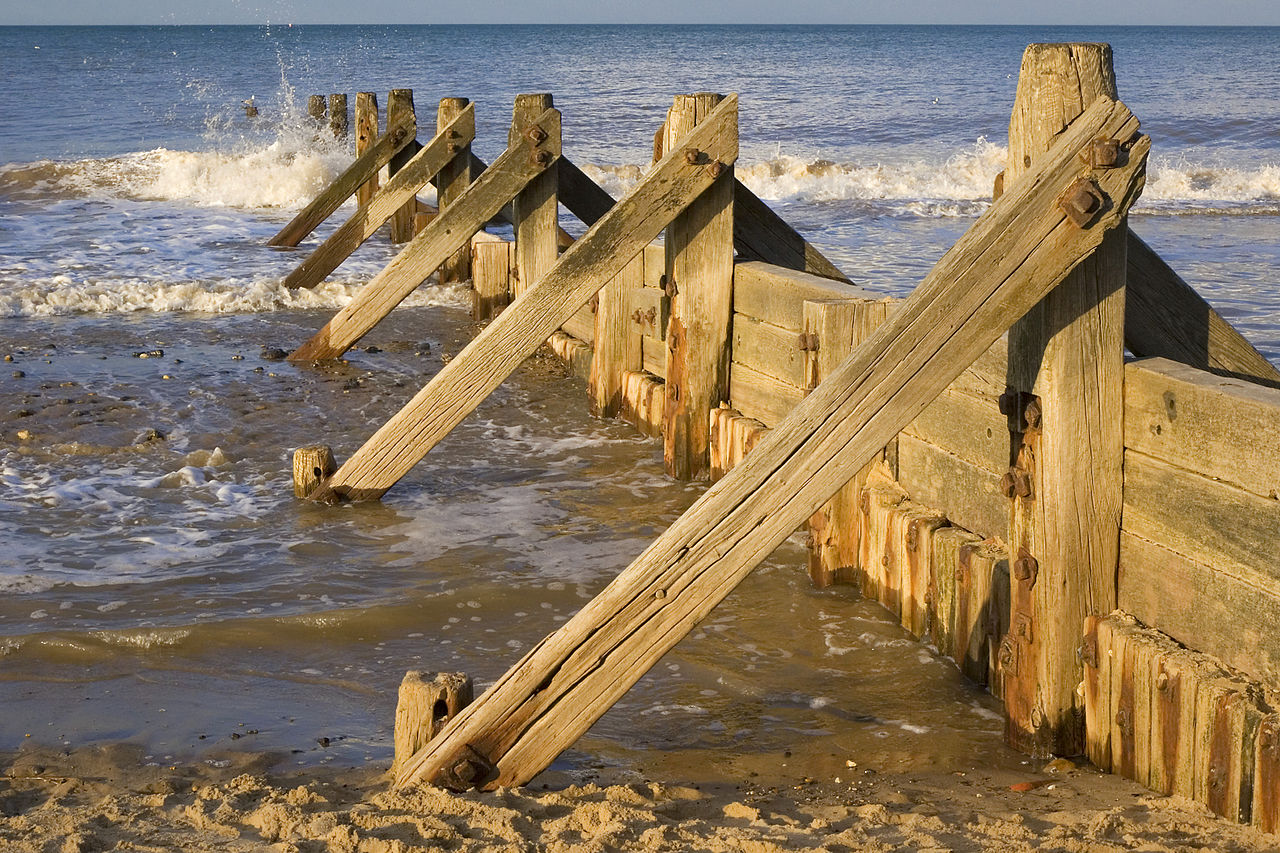
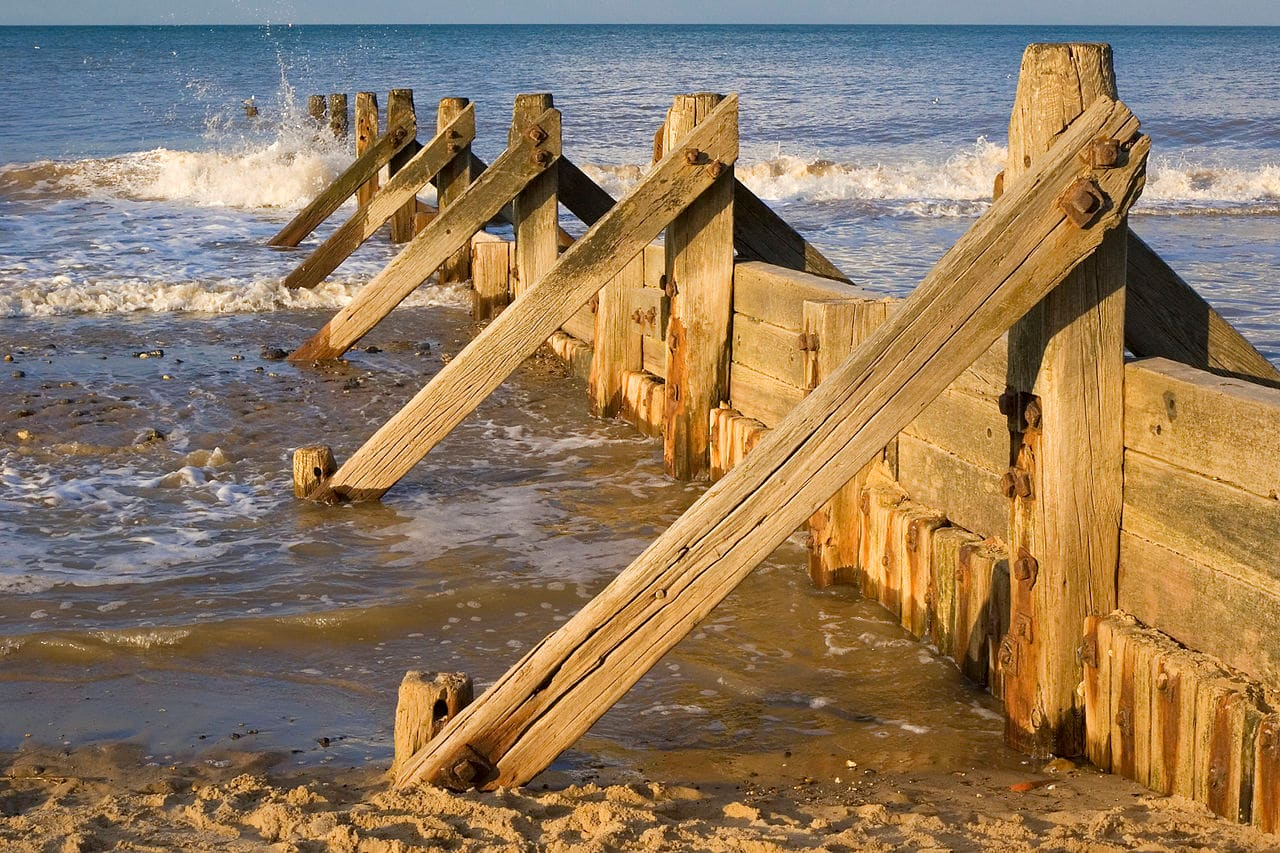
Compress static images, load Mulish font, memoize map components, and add query indexes

diff --git a/backend/migrations/2026-08-18_query_indexes.js b/backend/migrations/2026-08-18_query_indexes.js
@@ -1,0 +1,32 @@
+const pool = require("../db");
+
+async function main() {
+  const client = await pool.connect();
+  try {
+    await client.query("BEGIN");
+    await client.query(`
+      CREATE INDEX IF NOT EXISTS idx_zones_satellite_active
+      ON shoreline_zones (area_id, year)
+      WHERE source_type LIKE 'Satellite Analysis%' AND active
+    `);
+    await client.query(`
+      CREATE INDEX IF NOT EXISTS idx_audit_log_created_at
+      ON audit_log (created_at DESC)
+    `);
+    await client.query(`
+      CREATE INDEX IF NOT EXISTS idx_account_requests_status
+      ON account_requests (status, requested_at DESC)
+    `);
+    await client.query("COMMIT");
+    console.log("Query indexes created.");
+  } catch (err) {
+    await client.query("ROLLBACK");
+    console.error("Migration failed:", err.message);
+    process.exitCode = 1;
+  } finally {
+    client.release();
+    await pool.end();
+  }
+}
+
+main();

diff --git a/frontend/src/components/CoastalSummary.jsx b/frontend/src/components/CoastalSummary.jsx
@@ -1,9 +1,9 @@
-import { useEffect, useRef, useState } from "react";
+import { memo, useEffect, useRef, useState } from "react";
 import "../pages/styles/coastalsummarycard.css";
 import { SEGMENT_COLORS } from "../utils/segmentData";
 
 import { API_BASE_URL } from "../config/api";
-export default function CoastalSummary({ yearlyData = [], selectedMunicipality = null, segments = [] }) {
+function CoastalSummary({ yearlyData = [], selectedMunicipality = null, segments = [] }) {
   const summaryRef = useRef(null);
   const [isVisible, setIsVisible] = useState(true);
   const [bataanSummary, setBataanSummary] = useState(null);
@@ -161,3 +161,5 @@ export default function CoastalSummary({ yearlyData = [], selectedMunicipality =
     </div>
   );
 }
+
+export default memo(CoastalSummary);

diff --git a/frontend/src/components/MapLegend.jsx b/frontend/src/components/MapLegend.jsx
@@ -1,11 +1,11 @@
-import { useEffect, useRef, useState } from "react";
+import { memo, useEffect, useRef, useState } from "react";
 import "../pages/styles/mapLegend.css";
 import { SEGMENT_COLORS, SEGMENT_RISK_LEVELS } from "../utils/segmentData";
 
 // derived from the shared risk classification so it can't drift from the map colors
 const RISK_TIER_ORDER = ["VERY_HIGH", "HIGH", "MODERATE", "LOW", "VERY_LOW"];
 
-export default function MapLegend() {
+function MapLegend() {
   const legendRef = useRef(null);
   const [isVisible, setIsVisible] = useState(true);
   let lastScrollY = 0;
@@ -92,3 +92,5 @@ export default function MapLegend() {
     </div>
   );
 }
+
+export default memo(MapLegend);

diff --git a/frontend/index.html b/frontend/index.html
@@ -3,7 +3,9 @@
   <head>
     <meta charset="UTF-8" />
     <link rel="icon" type="image/svg+xml" href="/vite.svg" />
-    <link href="https://fonts.googleapis.com/css2?family=Poppins:wght@500;600&family=Open+Sans:wght@400;500&display=swap" rel="stylesheet">
+    <link rel="preconnect" href="https://fonts.googleapis.com">
+    <link rel="preconnect" href="https://fonts.gstatic.com" crossorigin>
+    <link href="https://fonts.googleapis.com/css2?family=Poppins:wght@500;600&family=Open+Sans:wght@400;500&family=Mulish:wght@400;600;700&display=swap" rel="stylesheet">
     <meta name="viewport" content="width=device-width, initial-scale=1.0" />
     <title>coastalerosion</title>
   </head>

diff --git a/frontend/src/components/ErosionAnalysisCards.jsx b/frontend/src/components/ErosionAnalysisCards.jsx
@@ -1,10 +1,10 @@
-import { useEffect, useRef, useState } from "react";
+import { memo, useEffect, useRef, useState } from "react";
 import "../pages/styles/erosionAnalysisCards.css";
 import { getCoastlineLength } from "../utils/coastlineUtils";
 import { SEGMENT_RISK_LEVELS } from "../utils/segmentData";
 
 import { API_BASE_URL } from "../config/api";
-export default function ErosionAnalysisCards({
+function ErosionAnalysisCards({
   selectedMunicipality,
   municipalityStats,
   yearlyShorelineData,
@@ -276,3 +276,5 @@ export default function ErosionAnalysisCards({
     </div>
   );
 }
+
+export default memo(ErosionAnalysisCards);

diff --git a/frontend/src/components/RiskLevelLegendCard.jsx b/frontend/src/components/RiskLevelLegendCard.jsx
@@ -1,9 +1,10 @@
+import { memo } from "react";
 import { SEGMENT_COLORS, SEGMENT_RISK_LEVELS } from "../utils/segmentData";
 
 // static (non-toggleable) risk-level reference for the Dashboard
 const RISK_TIER_ORDER = ["VERY_HIGH", "HIGH", "MODERATE", "LOW", "VERY_LOW"];
 
-export default function RiskLevelLegendCard() {
+function RiskLevelLegendCard() {
   const riskLevels = RISK_TIER_ORDER.map((key) => ({
     color: SEGMENT_COLORS[`${key}_RISK`],
     label: SEGMENT_RISK_LEVELS[key],
@@ -26,3 +27,5 @@ export default function RiskLevelLegendCard() {
     </div>
   );
 }
+
+export default memo(RiskLevelLegendCard);

diff --git a/frontend/src/components/SegmentsPanel.jsx b/frontend/src/components/SegmentsPanel.jsx
@@ -1,3 +1,4 @@
+import { memo } from "react";
 /**
  * Segments Panel Component
  * Displays detailed information about coastal segments for a selected municipality
@@ -6,7 +7,7 @@
 import "../pages/styles/segmentsPanel.css";
 import { getRiskColor, SEGMENT_RISK_LEVELS } from '../utils/segmentData';
 
-export default function SegmentsPanel({
+function SegmentsPanel({
   showPanel,
   selectedMunicipality,
   segments,
@@ -132,3 +133,5 @@ export default function SegmentsPanel({
     </div>
   );
 }
+
+export default memo(SegmentsPanel);

diff --git a/frontend/src/components/ErosionLegend.jsx b/frontend/src/components/ErosionLegend.jsx
@@ -1,7 +1,7 @@
-import { useEffect, useRef, useState } from "react";
+import { memo, useEffect, useRef, useState } from "react";
 import "../pages/styles/erosionLegend.css";
 
-export default function ErosionLegend() {
+function ErosionLegend() {
   const legendRef = useRef(null);
   const [isVisible, setIsVisible] = useState(true);
   let lastScrollY = 0;
@@ -103,3 +103,5 @@ export default function ErosionLegend() {
     </div>
   );
 }
+
+export default memo(ErosionLegend);

diff --git a/frontend/src/components/PredictionResultCard.jsx b/frontend/src/components/PredictionResultCard.jsx
@@ -1,7 +1,7 @@
-import { useEffect, useRef } from "react";
+import { memo, useEffect, useRef } from "react";
 import "../pages/styles/predictionResultCard.css";
 
-export default function PredictionResultCard({
+function PredictionResultCard({
   isActive = false,
   predictionData = null,
   onClear = null
@@ -106,3 +106,5 @@ export default function PredictionResultCard({
     </div>
   );
 }
+
+export default memo(PredictionResultCard);

diff --git a/frontend/src/pages/styles/globals.css b/frontend/src/pages/styles/globals.css
@@ -3,7 +3,7 @@
 }
 
 body {
-  font-family: 'Muli', sans-serif;
+  font-family: 'Mulish', 'Muli', sans-serif;
   background: var(--bg-main);
   margin: 0;
   padding: 0;
@@ -14,5 +14,5 @@ body {
 h1,
 h2,
 h3 {
-  font-family: 'Muli', sans-serif;
+  font-family: 'Mulish', 'Muli', sans-serif;
 }

diff --git a/Docs/PERFORMANCE_RESULTS.md b/Docs/PERFORMANCE_RESULTS.md
@@ -1,0 +1,49 @@
+# Performance Optimization Results
+
+Measured 2026-08-18 against the local test environment (see LOCAL_TEST_ENVIRONMENT.md).
+Re-measure against production after deployment for the thesis's final numbers — the
+local dataset is small, so production payload gains will be substantially LARGER than
+the ratios below.
+
+## Static assets (frontend/public)
+
+In-place compression with sharp (resize to max 1920 px + mozjpeg/palette PNG):
+
+| File | Before | After |
+|---|---|---|
+| Sentinel-2 true-color sample PNG | 25.5 MB | 0.76 MB |
+| temporaryreq.jpg | 3.1 MB | 0.45 MB |
+| IndexBG.png | 2.8 MB | 0.79 MB |
+| tempoBG.jpg | 2.3 MB | 0.46 MB |
+| awareness_tempbg.png | 1.9 MB | 0.50 MB |
+| **Total public/** | **40 MB** | **6.8 MB (−83%)** |
+
+## JavaScript bundle (vite build, gzipped)
+
+- Route-based code splitting: every page loads as its own chunk; a public visitor no
+  longer downloads the admin pages, Leaflet, or the analysis code on first paint.
+- `@turf/turf` (full library) replaced with `@turf/bbox` — the only function used.
+- Initial JS for the landing page: ~104 KB gzipped (was a single >500 KB-warning bundle).
+
+## API layer (verified live)
+
+- `compression()` gzip active: 2.1× smaller on the small test payload; GeoJSON-heavy
+  production responses compress ~5–10×.
+- `Cache-Control: public, max-age=300` on all public GET reads (verified in headers) —
+  repeat map loads within 5 minutes are served from the browser cache.
+- Served coastlines are Douglas-Peucker simplified at 5 m tolerance before transfer.
+- Median response times on the test stack: 1 ms for municipality/hotspot/validation
+  reads (index-backed; partial index covers the hot
+  `source_type LIKE 'Satellite Analysis%' AND active` predicate).
+- Fonts: Mulish now actually loads (it was referenced but never linked) with
+  preconnect + display=swap.
+- Presentational map components (legends, summary, segments panel, prediction card)
+  are memoized so map state changes no longer re-render them.
+
+## Production measurement checklist (after deploy)
+
+1. `curl -s -o /dev/null -w "%{size_download} %{time_total}"` with and without
+   `Accept-Encoding: gzip` on `/api/shoreline/satellite-coastline/<municipality>` and
+   `/api/shoreline/bataan/all-zones` — record the real compression ratio.
+2. Lighthouse run on the landing page and the map page (target: Performance ≥ 85).
+3. Record the numbers in this file for the thesis chapter.
